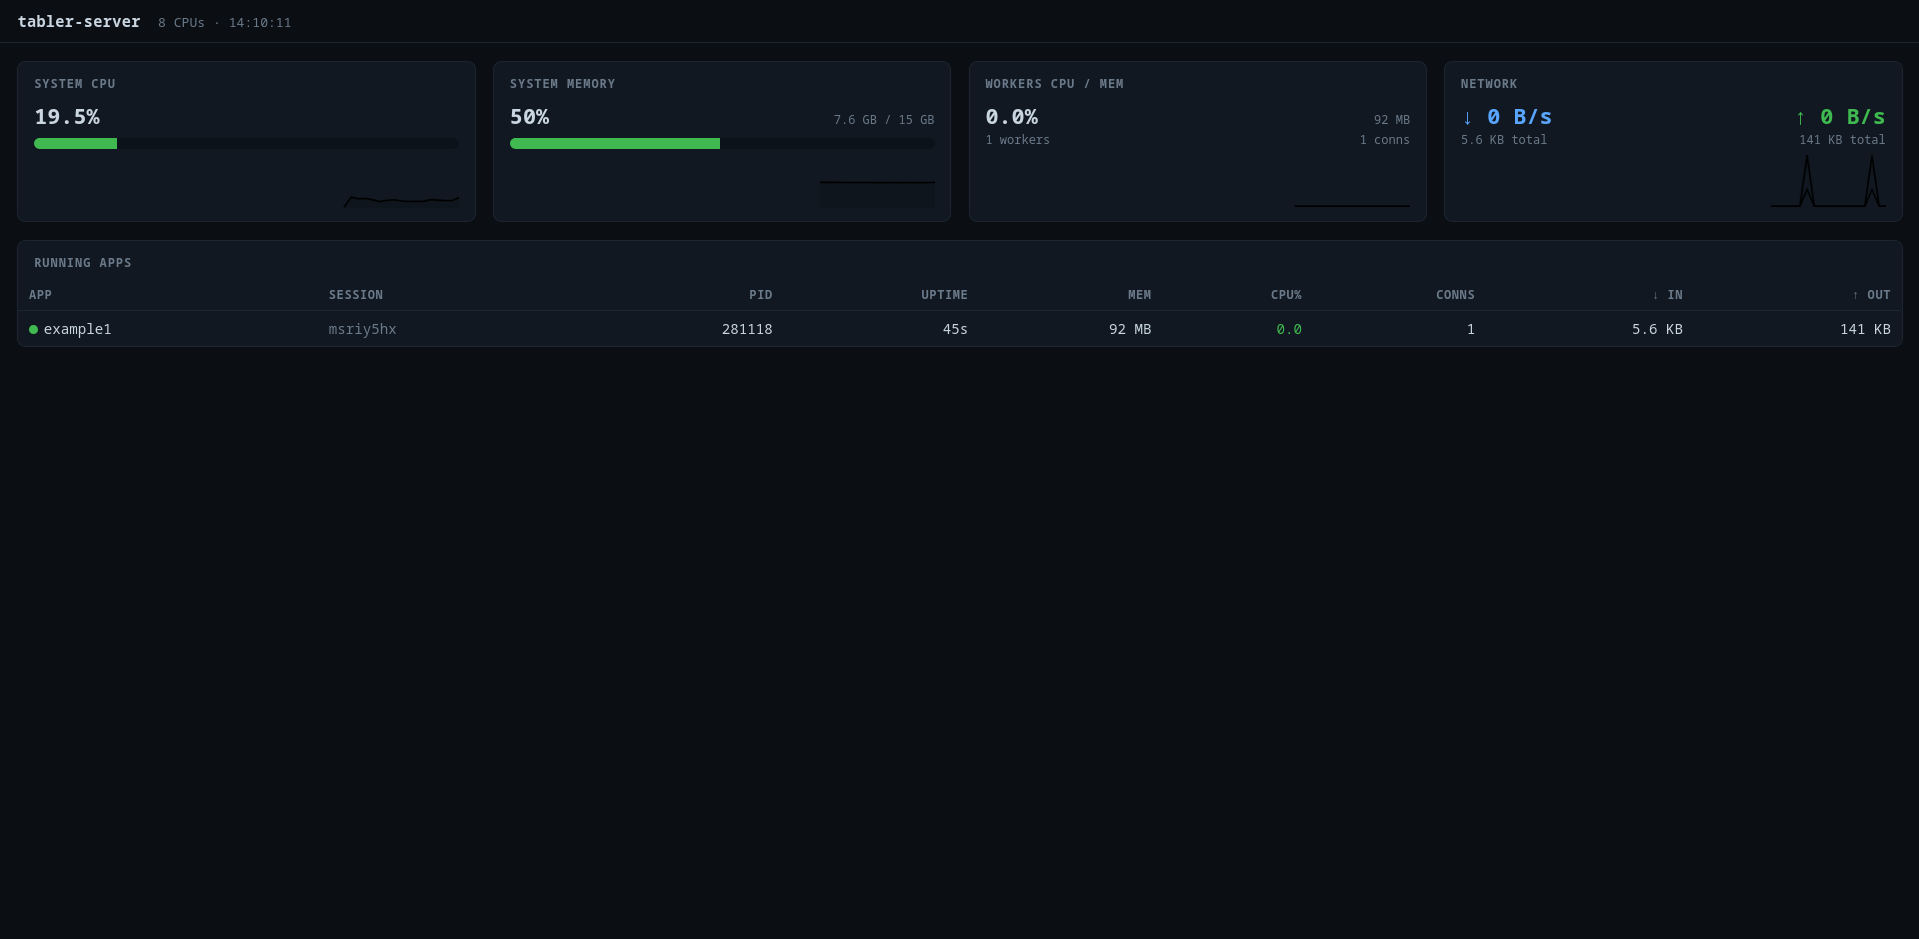
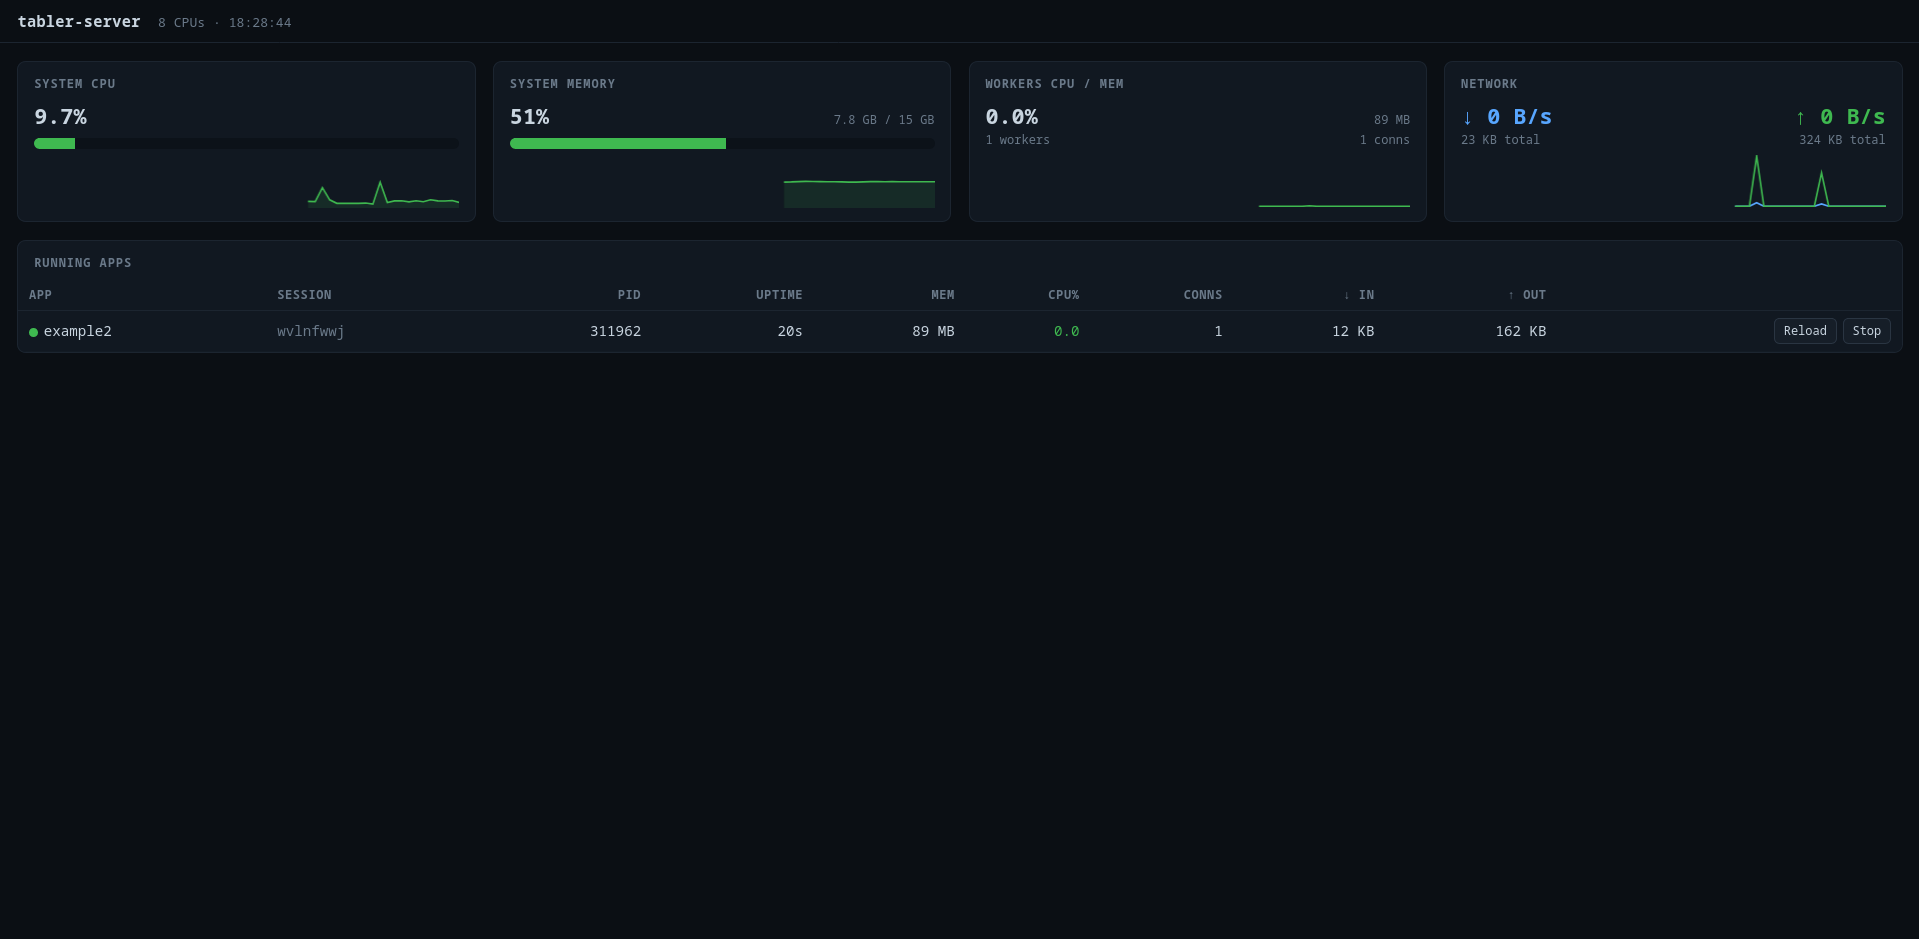
add stop/reload button for each app in the admin page

diff --git a/src/admin.cpp b/src/admin.cpp
@@ -10,6 +10,7 @@
 #include <cstdint>
 #include <cstdio>
 #include <cstring>
+#include <cctype>
 #include <fstream>
 #include <sstream>
 #include <string>
@@ -172,6 +173,36 @@ std::string num(double v) {
   return buf;
 }
 
+// Extracts `key`'s value from a request target's query string ("/path?a=b&c=d"),
+// or "" if absent. No percent-decoding: sids are restricted to [a-z0-9].
+std::string query_param(const std::string &target, const std::string &key) {
+  size_t q = target.find('?');
+  if (q == std::string::npos) return "";
+  std::string qs = target.substr(q + 1);
+  size_t pos = 0;
+  while (pos < qs.size()) {
+    size_t amp = qs.find('&', pos);
+    size_t end = amp == std::string::npos ? qs.size() : amp;
+    size_t eq = qs.find('=', pos);
+    if (eq != std::string::npos && eq < end && qs.compare(pos, eq - pos, key) == 0) {
+      return qs.substr(eq + 1, end - eq - 1);
+    }
+    if (amp == std::string::npos) break;
+    pos = amp + 1;
+  }
+  return "";
+}
+
+// Session ids (see proxy.cpp's random_sid()) are always 24 lowercase
+// alphanumeric characters; reject anything else before using one as a map key.
+bool is_valid_sid(const std::string &sid) {
+  if (sid.empty() || sid.size() > 64) return false;
+  for (char c : sid) {
+    if (!std::isalnum(static_cast<unsigned char>(c))) return false;
+  }
+  return true;
+}
+
 const char *kDashboardHtml = R"HTML(<!DOCTYPE html>
 <html lang="en">
 <head>
@@ -212,6 +243,14 @@ const char *kDashboardHtml = R"HTML(<!DOCTYPE html>
   .up { background:var(--grn); } .idle { background:var(--yel); }
   .empty { padding:1.5rem; text-align:center; color:var(--dim); }
   .mini { font-size:11px; }
+  .actions { text-align:right; white-space:nowrap; }
+  .btn { font:inherit; font-size:11px; padding:.2rem .5rem; margin-left:.35rem;
+         border-radius:5px; border:1px solid #2a3542; background:#161e28;
+         color:var(--fg); cursor:pointer; }
+  .btn:hover { border-color:#3a4a5c; }
+  .btn:disabled { opacity:.5; cursor:default; }
+  .btn-reload:hover { color:var(--blu); border-color:var(--blu); }
+  .btn-stop:hover { color:var(--red); border-color:var(--red); }
 </style>
 </head>
 <body>
@@ -253,9 +292,9 @@ const char *kDashboardHtml = R"HTML(<!DOCTYPE html>
     <table>
       <thead><tr>
         <th>App</th><th>Session</th><th>PID</th><th>Uptime</th>
-        <th>Mem</th><th>CPU%</th><th>Conns</th><th>↓ In</th><th>↑ Out</th>
+        <th>Mem</th><th>CPU%</th><th>Conns</th><th>↓ In</th><th>↑ Out</th><th></th>
       </tr></thead>
-      <tbody id="rows"><tr><td class="empty" colspan="9">No running apps</td></tr></tbody>
+      <tbody id="rows"><tr><td class="empty" colspan="10">No running apps</td></tr></tbody>
     </table>
   </div>
 </div>
@@ -280,6 +319,19 @@ function fmtDur(s){
   return sec+"s";
 }
 function push(arr,v){ arr.push(v); if (arr.length>HIST) arr.shift(); }
+
+async function sessionAction(path, sid, btn){
+  if (btn) btn.disabled = true;
+  try {
+    await fetch(path+"?sid="+encodeURIComponent(sid), {method:"POST"});
+  } catch(e) { /* dashboard poll will reflect the current state regardless */ }
+  tick();
+}
+function reloadApp(sid, btn){ sessionAction("api/reload", sid, btn); }
+function stopApp(sid, btn){
+  if (!confirm("Stop this app? Unsaved state for this session will be lost.")) return;
+  sessionAction("api/stop", sid, btn);
+}
 
 function draw(id, arr, color, max){
   const cv = document.getElementById(id);
@@ -364,10 +416,11 @@ async function tick(){
   // table
   const rows = document.getElementById("rows");
   if (!d.workers.length){
-    rows.innerHTML = '<tr><td class="empty" colspan="9">No running apps</td></tr>';
+    rows.innerHTML = '<tr><td class="empty" colspan="10">No running apps</td></tr>';
   } else {
     rows.innerHTML = d.workers.map(w=>{
       const active = w.conns>0;
+      const sid = w.sid.replace(/'/g,"");
       return "<tr>"+
         "<td><span class='dot "+(active?"up":"idle")+"'></span>"+w.app+"</td>"+
         "<td class='dim'>"+w.sid.slice(0,8)+"</td>"+
@@ -378,9 +431,14 @@ async function tick(){
         "<td>"+w.conns+"</td>"+
         "<td>"+fmtBytes(w.bytes_in)+"</td>"+
         "<td>"+fmtBytes(w.bytes_out)+"</td>"+
+        "<td class='actions'>"+
+          "<button class='btn btn-reload' onclick=\"reloadApp('"+sid+"',this)\">Reload</button>"+
+          "<button class='btn btn-stop' onclick=\"stopApp('"+sid+"',this)\">Stop</button>"+
+        "</td>"+
       "</tr>";
     }).join("");
   }
+
 
   prev = d; prevT = now;
 }
@@ -497,6 +555,21 @@ std::string AdminServer::build_stats_json() {
   return js.str();
 }
 
+std::string AdminServer::handle_action(const std::string &target, bool reload) {
+  std::string sid = query_param(target, "sid");
+  if (!is_valid_sid(sid)) {
+    return http_response(400, "Bad Request", "application/json",
+                         "{\"ok\":false,\"error\":\"invalid sid\"}");
+  }
+
+  bool ok = reload ? workers_.restart_session(sid) != nullptr
+                   : workers_.kill_session(sid);
+  std::string body =
+      ok ? "{\"ok\":true}" : "{\"ok\":false,\"error\":\"no such session\"}";
+  return http_response(ok ? 200 : 404, ok ? "OK" : "Not Found",
+                       "application/json", body);
+}
+
 void AdminServer::handle_connection(int client_fd) {
   std::string head, leftover;
   if (!read_http_head(client_fd, head, leftover)) return;
@@ -509,7 +582,11 @@ void AdminServer::handle_connection(int client_fd) {
   }
 
   std::string path = req.path();
-  if (path == "/stats.json") {
+  if (req.method == "POST" && path == "/api/stop") {
+    send_all(client_fd, handle_action(req.target, false));
+  } else if (req.method == "POST" && path == "/api/reload") {
+    send_all(client_fd, handle_action(req.target, true));
+  } else if (path == "/stats.json") {
     send_all(client_fd, http_response(200, "OK", "application/json",
                                       build_stats_json()));
   } else if (path == "/" || path.empty()) {

diff --git a/src/worker.cpp b/src/worker.cpp
@@ -193,6 +193,26 @@ std::shared_ptr<Worker> WorkerManager::ensure_session(const std::string &sid,
   return w;
 }
 
+bool WorkerManager::kill_session(const std::string &sid) {
+  std::lock_guard<std::mutex> lock(mutex_);
+  auto it = sessions_.find(sid);
+  if (it == sessions_.end()) return false;
+  kill_worker(it->second);
+  return true;
+}
+
+std::shared_ptr<Worker> WorkerManager::restart_session(const std::string &sid) {
+  std::string app;
+  {
+    std::lock_guard<std::mutex> lock(mutex_);
+    auto it = sessions_.find(sid);
+    if (it == sessions_.end()) return nullptr;
+    app = it->second->app;
+    kill_worker(it->second);
+  }
+  return ensure_session(sid, app);
+}
+
 void WorkerManager::conn_opened(const std::shared_ptr<Worker> &w, bool is_ws) {
   if (!w) return;
   std::lock_guard<std::mutex> lock(mutex_);

diff --git a/src/worker.hpp b/src/worker.hpp
@@ -71,6 +71,16 @@ class WorkerManager {
   // A point-in-time copy of every live worker's state, for the dashboard.
   std::vector<WorkerStat> snapshot() const;
 
+  // Terminate the worker for a session, if any. Returns true if a worker was
+  // found and killed. Used by the admin dashboard's "stop" action.
+  bool kill_session(const std::string &sid);
+
+  // Terminate the worker for a session (if any) and immediately spawn a
+  // replacement with the same sid+app, so the app is ready before the client
+  // reconnects. Returns nullptr if there was no such session or the respawn
+  // failed. Used by the admin dashboard's "reload" action.
+  std::shared_ptr<Worker> restart_session(const std::string &sid);
+
   // Connection accounting used to drive idle/disconnect reaping.
   void conn_opened(const std::shared_ptr<Worker> &w, bool is_ws);
   void conn_closed(const std::shared_ptr<Worker> &w);

diff --git a/src/admin.hpp b/src/admin.hpp
@@ -28,6 +28,8 @@ class AdminServer {
  private:
   void handle_connection(int client_fd);
   std::string build_stats_json();
+  // Handles POST /api/stop and /api/reload, keyed by the sid query param.
+  std::string handle_action(const std::string &target, bool reload);
 
   // Per-pid CPU accounting: last (proc_ticks, total_ticks) sample so we can
   // compute a %CPU over the interval between two dashboard polls.